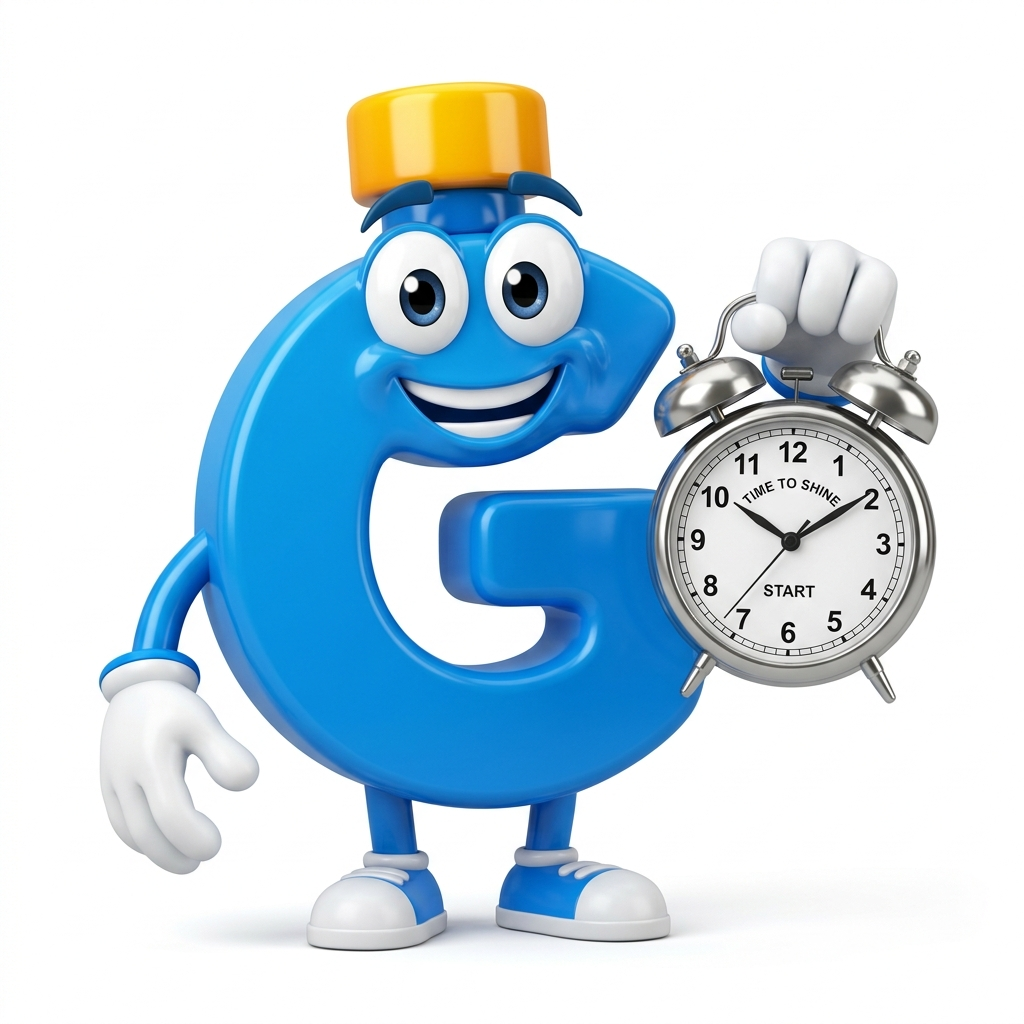
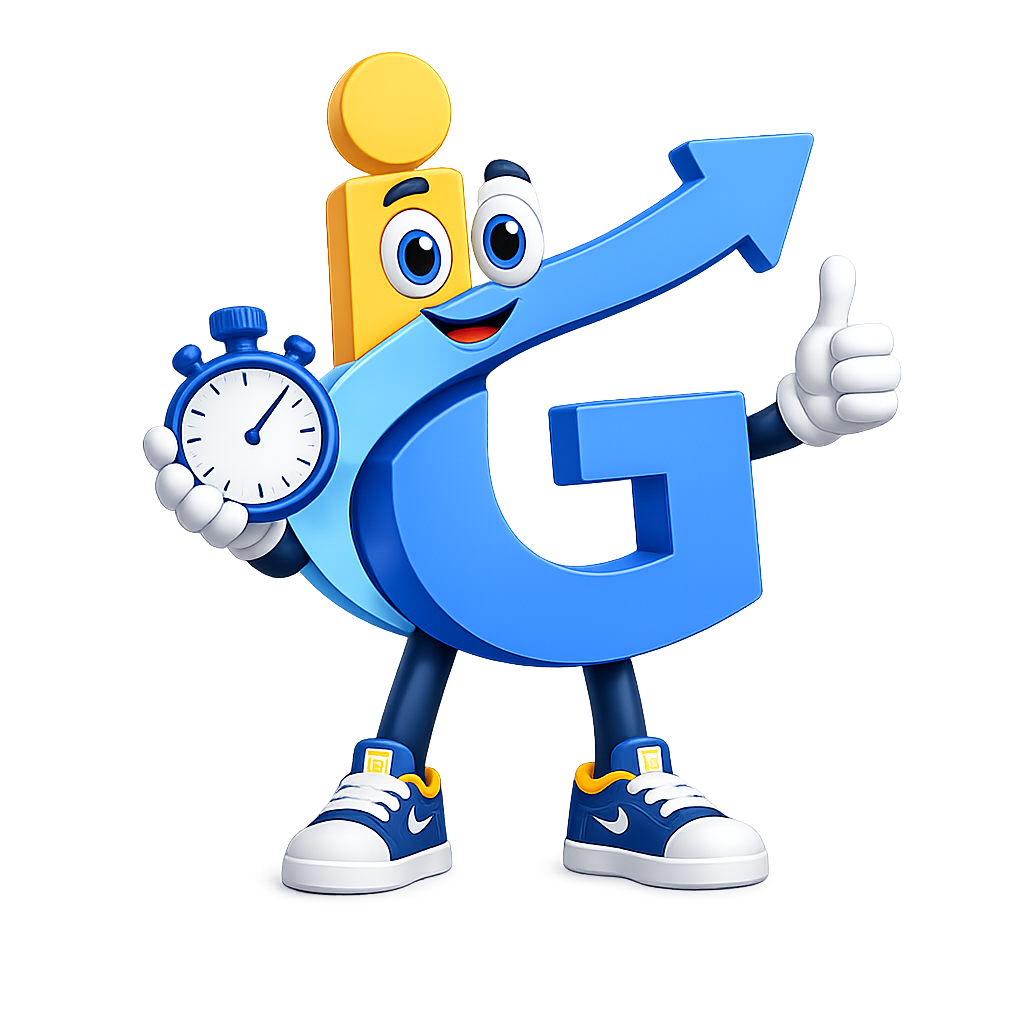
feat: use world map background image in Hero and place PinCards on actual geographic locations

diff --git a/src/components/Hero.tsx b/src/components/Hero.tsx
@@ -44,17 +44,16 @@ function WorldMapDots() {
 
 /* ── Country Pin Card ─────────────────────────────────────────────────────── */
 interface PinCardProps {
-  flag: string
   country: string
   label: string
   style: React.CSSProperties
   delay?: number
 }
-function PinCard({ flag, country, label, style, delay = 0 }: PinCardProps) {
+function PinCard({ country, label, style, delay = 0 }: PinCardProps) {
   return (
     <motion.div
-      className="hidden sm:flex absolute bg-white rounded-2xl shadow-xl border border-gray-100/80 px-4 py-3 items-center gap-3 z-20"
-      style={{ ...style, minWidth: 156 }}
+      className="hidden sm:flex absolute bg-white/90 backdrop-blur-sm rounded-2xl shadow-lg border border-gray-100/50 px-3.5 py-2.5 items-center gap-2.5 z-20 hover:scale-105 transition-transform duration-200"
+      style={{ ...style, minWidth: 140 }}
       initial={{ opacity: 0, scale: 0.8, y: 10 }}
       animate={{ opacity: 1, scale: 1, y: 0 }}
       transition={{ delay: 0.8 + delay, duration: 0.5, ease: [0.16, 1, 0.3, 1] }}
@@ -65,8 +64,8 @@ function PinCard({ flag, country, label, style, delay = 0 }: PinCardProps) {
         <span className="w-2.5 h-2.5 rounded-full bg-blue-500 relative" />
       </span>
       <div className="min-w-0">
-        <p className="text-xs font-bold text-slate-800 leading-none">{flag} {country}</p>
-        <p className="text-[11px] text-slate-400 mt-1 truncate">{label}</p>
+        <p className="text-xs font-extrabold text-slate-800 leading-none">{country}</p>
+        <p className="text-[10px] text-slate-400 mt-1 truncate">{label}</p>
       </div>
     </motion.div>
   )
@@ -267,36 +266,43 @@ export default function Hero() {
 
           {/* ── RIGHT COLUMN (45%) — World Map + Mascot + Country Pins ─────── */}
           <motion.div
-            className="w-full lg:w-[45%] relative flex items-center justify-center h-[350px] sm:h-[450px] lg:h-[520px]"
+            className="w-full lg:w-[48%] relative flex items-center justify-center"
             initial={{ opacity: 0 }}
             animate={{ opacity: 1 }}
             transition={{ delay: 0.3, duration: 0.8 }}
           >
-            {/* World map dots background */}
-            <div className="absolute inset-0 flex items-center justify-center">
-              <div className="relative w-full h-full">
-                <WorldMapDots />
+            {/* Relative container with aspect ratio for map alignment */}
+            <div className="relative w-full aspect-[3/2] max-w-[650px] mx-auto flex items-center justify-center">
+              
+              {/* World map background image */}
+              <div className="absolute inset-0 flex items-center justify-center">
+                <img
+                  src="/world-map.png"
+                  alt="World Map"
+                  className="w-full h-full object-contain opacity-90 select-none pointer-events-none"
+                />
               </div>
+
+              {/* Mascot — floating animation */}
+              <motion.div
+                className="relative z-10 w-[35%] sm:w-[40%] drop-shadow-[0_25px_45px_rgba(0,0,0,0.12)]"
+                animate={{ y: [-8, 6, -8] }}
+                transition={{ duration: 6, repeat: Infinity, ease: 'easeInOut' }}
+              >
+                <img
+                  src="/mascot-hero.png"
+                  alt="Instant Grow Mascot"
+                  className="w-full h-auto select-none"
+                />
+              </motion.div>
+
+              {/* Country pin cards placed at actual geographical coordinates */}
+              <PinCard country={isAr ? "أمريكا" : "USA"} label={isAr ? "تأسيس شركة LLC" : "LLC Formation"} style={{ top: '28%', left: '16%' }} delay={0} />
+              <PinCard country={isAr ? "بريطانيا" : "UK"} label={isAr ? "تأسيس شركة LTD" : "LTD Company"} style={{ top: '20%', left: '46%' }} delay={0.15} />
+              <PinCard country={isAr ? "الإمارات" : "UAE"} label={isAr ? "تأسيس أعمال" : "Business Setup"} style={{ top: '38%', left: '60%' }} delay={0.3} />
+              <PinCard country={isAr ? "أستراليا" : "Australia"} label={isAr ? "تأسيس شركة" : "Company Setup"} style={{ top: '72%', left: '80%' }} delay={0.45} />
+
             </div>
-
-            {/* Mascot — floating animation */}
-            <motion.div
-              className="relative z-10 w-[240px] sm:w-[320px] lg:w-[380px] xl:w-[420px] drop-shadow-[0_35px_50px_rgba(0,0,0,0.14)]"
-              animate={{ y: [-12, 8, -12] }}
-              transition={{ duration: 6, repeat: Infinity, ease: 'easeInOut' }}
-            >
-              <img
-                src="/mascot-hero.png"
-                alt="Instant Grow Mascot"
-                className="w-full h-auto select-none"
-              />
-            </motion.div>
-
-            {/* Country pin cards */}
-            <PinCard flag="🇺🇸" country="USA" label="LLC Formation" style={{ top: '8%', left: '0%' }} delay={0} />
-            <PinCard flag="🇬🇧" country="UK" label="LTD Company" style={{ top: '8%', right: '-4%' }} delay={0.15} />
-            <PinCard flag="🇦🇪" country="UAE" label="Business Setup" style={{ bottom: '22%', left: '-2%' }} delay={0.3} />
-            <PinCard flag="🇦🇺" country="Australia" label="Company Setup" style={{ bottom: '22%', right: '-4%' }} delay={0.45} />
           </motion.div>
         </div>
 